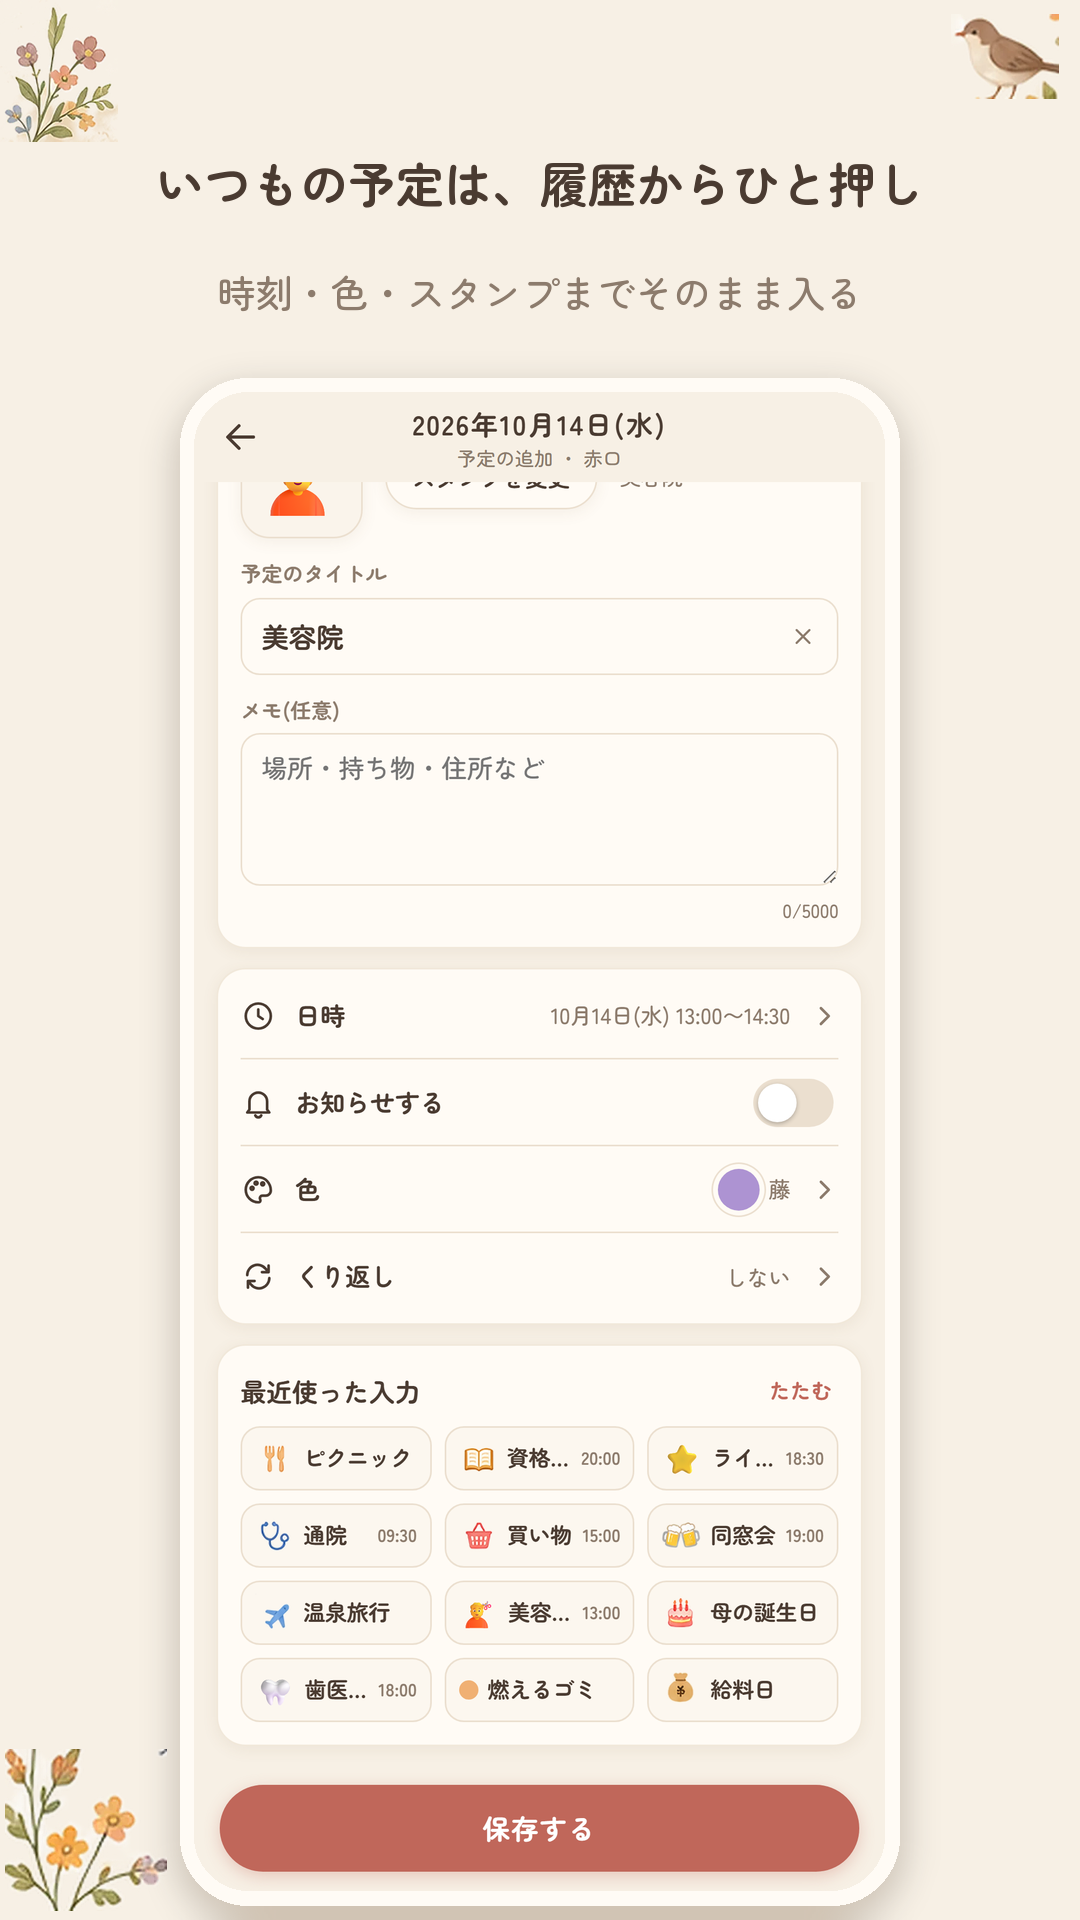
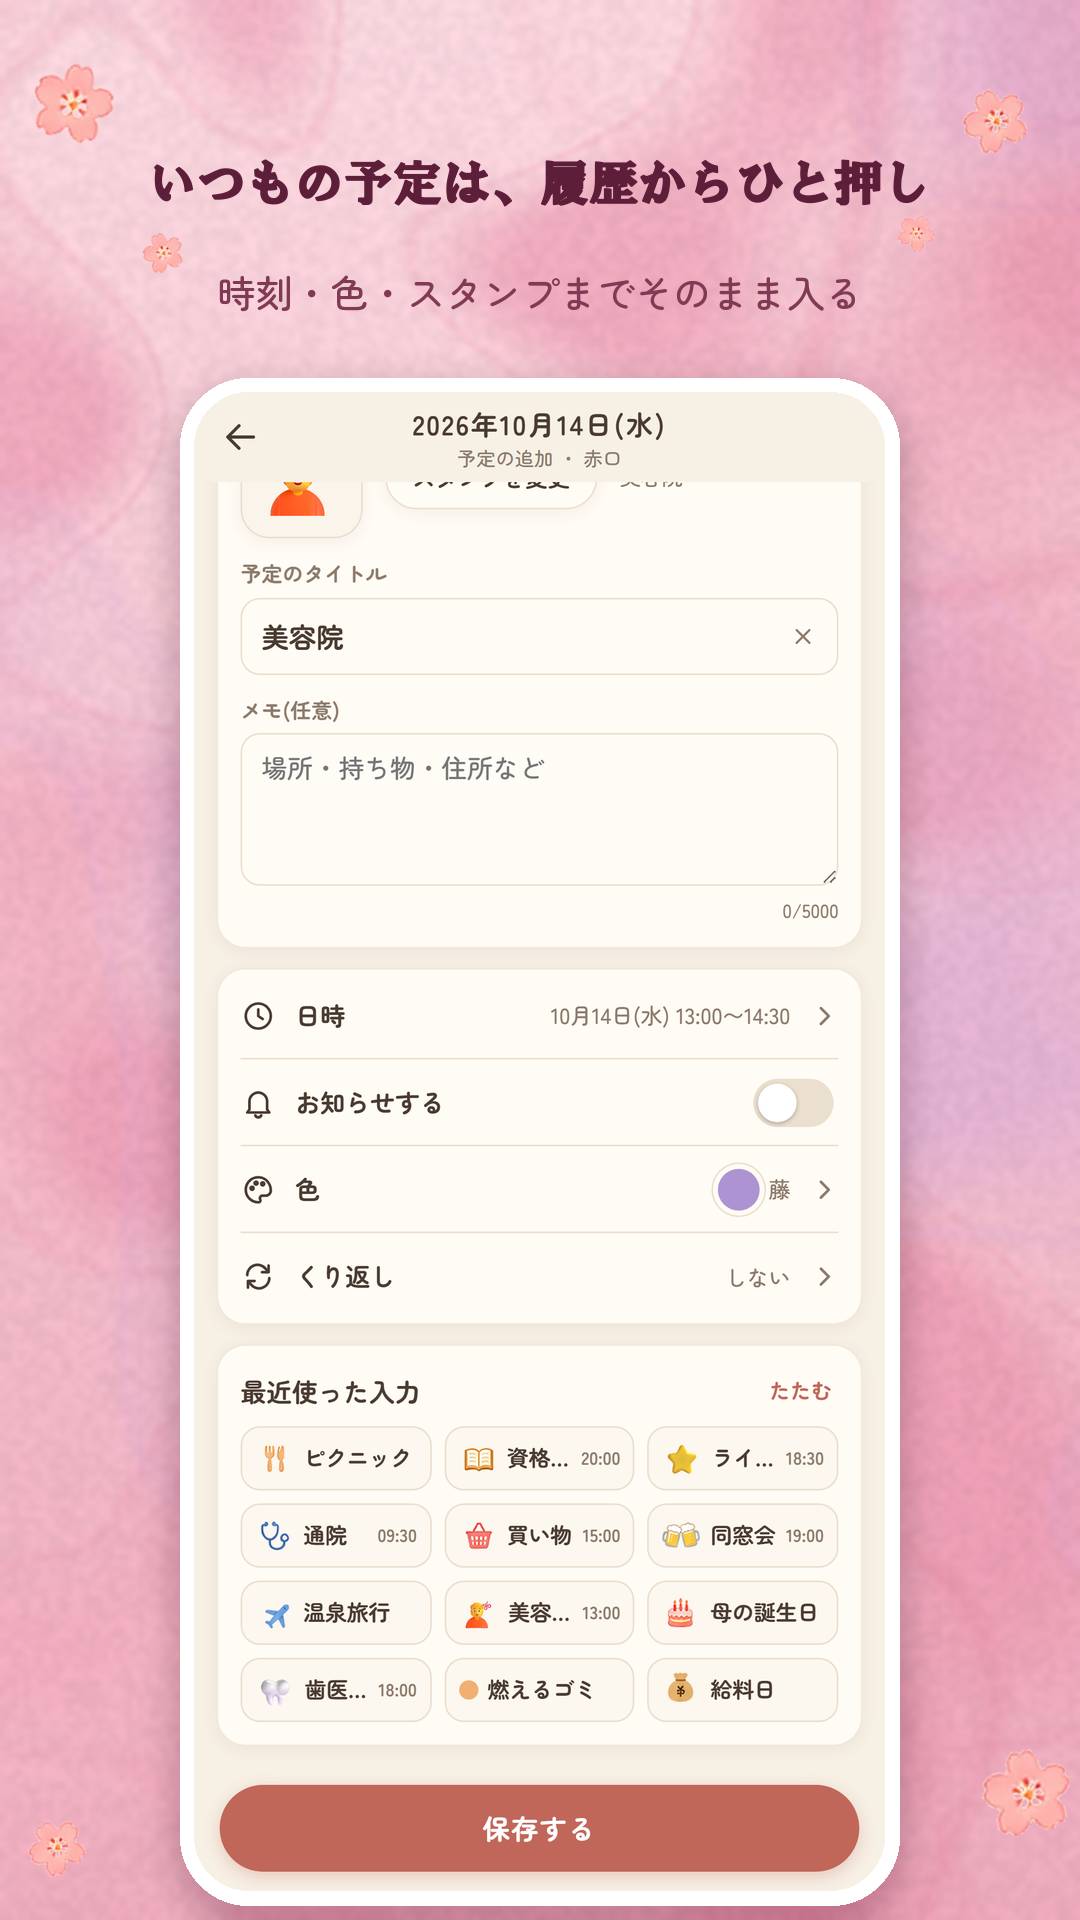
ストア画像と宣伝の地を生成りの無地から桜色の水彩に(HG正楷書体-PRO・桜スタンプ)
持ち主「Claude 特有の背景をなくして」。Play 6枚・フィーチャー・iOS 5枚(iOS は前の版の画面と見出しのまま地だけ)を --no-capture で組み直した。
雀の絵は生成りの四角が残るので外した。元の画像は store/_cream_backup_2026-10-10/。

diff --git a/scripts/store_shots.py b/scripts/store_shots.py
@@ -3,8 +3,11 @@ python scripts/store_shots.py [製品ビルドのURL] [開発サーバーのURL]
 - 生の画面: store/raw_play/(430x932 の3倍)
 - Play 用 1080x1920: store/play/shot_N.png / フィーチャー 1024x500: store/play/feature.png
 - 値段・「無料」は写さない。iPhone だけの機能(iCloud など)は写さない
-- iOS の写真(store/ios/)は作らない(iOS は出し直さないため、前の物のまま)
-前の版の Play 素材は store/archive_v1_2026-10-10/play/ に退避してある"""
+- iOS の写真(store/ios/ 1290x2796)は、iOS は出し直さないので前の版の画面(store/raw/)と前の見出しのまま、地だけ作り直す
+- 撮り直さず組むだけ: python scripts/store_shots.py --no-capture
+前の版の Play 素材は store/archive_v1_2026-10-10/play/ に退避してある
+2026-10-10 持ち主「Claude 特有の背景をなくして」: 生成りの無地をやめ、桜色の水彩のにじみ(毎回同じ乱数)に
+アプリの桜スタンプを散らした地にする。見出しは HG正楷書体-PRO(HGRPRE)。元の画像は store/_cream_backup_2026-10-10/"""
 import os
 import sys
 import numpy as np
@@ -123,8 +126,53 @@ def art(name, w, soft=0):
     return im
 
 
-def paper(W, H):
-    return Image.new('RGB', (W, H), PAPER)
+HGPRE = 'C:/Windows/Fonts/HGRPRE.TTC'
+PLUM = (92, 30, 56)
+PLUM2 = (128, 58, 84)
+SAKURA_TOP = (248, 214, 222)
+SAKURA_BOT = (236, 170, 188)
+WASH = [(232, 140, 168), (214, 168, 214), (246, 186, 196), (222, 120, 150)]
+
+
+def _noise(W, H, cell, rng):
+    g = rng.random((H // cell + 3, W // cell + 3)).astype(np.float32)
+    im = Image.fromarray((g * 255).astype(np.uint8)).resize((W + cell * 3, H + cell * 3), Image.BICUBIC)
+    return np.asarray(im.crop((cell, cell, W + cell, H + cell)).filter(ImageFilter.GaussianBlur(cell * 0.35)), np.float32) / 255
+
+
+def paper(W, H, seed=7):
+    """桜色の水彩のにじみ(にじみの縁を少し濃くして水彩らしく)"""
+    rng = np.random.default_rng(seed)
+    y = np.linspace(0, 1, H, dtype=np.float32)[:, None, None]
+    base = np.array(SAKURA_TOP, np.float32) * (1 - y) + np.array(SAKURA_BOT, np.float32) * y
+    img = np.broadcast_to(base, (H, W, 3)).copy()
+    for k, col in enumerate(WASH):
+        n = _noise(W, H, int(W * (0.16 + 0.05 * k)), rng)
+        t = 0.55 + 0.04 * k
+        a = np.clip((n - t) * 5.0, 0, 1) * 0.55
+        edge = np.clip(1 - np.abs(n - t) * 40, 0, 1) * 0.22  # にじみの縁
+        a = np.clip(a + edge, 0, 0.75)[..., None]
+        img = img * (1 - a) + np.array(col, np.float32) * a
+    grain = _noise(W, H, 6, rng)[..., None]
+    img = img * (0.97 + 0.06 * grain)
+    return Image.fromarray(np.clip(img, 0, 255).astype(np.uint8))
+
+
+def petal(w, rot=0):
+    im = Image.open(os.path.join(ART, 'st_sakura.webp')).convert('RGBA')
+    a = np.asarray(im.getchannel('A'), np.float32)
+    rgb = np.asarray(im.convert('RGB'), np.float32)
+    pale = (rgb.min(axis=2) > 215)  # 生成りの縁を落とす
+    a = np.where((a < 170) | pale, 0, a)
+    im.putalpha(Image.fromarray(a.astype(np.uint8)).filter(ImageFilter.GaussianBlur(0.6)))
+    im = im.resize((w, w), Image.LANCZOS)
+    return im.rotate(rot, resample=Image.BICUBIC, expand=True)
+
+
+def scatter(im, spots):
+    for (fx, fy, fw, rot) in spots:
+        pe = petal(int(im.width * fw), rot)
+        im.alpha_composite(pe, (int(im.width * fx - pe.width / 2), int(im.height * fy - pe.height / 2)))
 
 
 def fit_font(d, text, path, size, maxw):
@@ -135,17 +183,17 @@ def fit_font(d, text, path, size, maxw):
     return f
 
 
-def compose(raw, title, sub, W, H, out):
-    im = paper(W, H).convert('RGBA')
+def compose(raw, title, sub, W, H, out, seed=7):
+    im = paper(W, H, seed).convert('RGBA')
     d = ImageDraw.Draw(im)
     cap_h = int(H * 0.19)
-    im.alpha_composite(art('sprig_tl', int(W * 0.11)), (0, 0))
-    sp = art('sparrow', int(W * 0.10))
-    im.alpha_composite(sp, (W - sp.width - int(W * 0.02), int(cap_h * 0.04)))
-    f1 = fit_font(d, title, FB, int(W * 0.062), W * 0.72)
-    f2 = fit_font(d, sub, FM, int(W * 0.036), W * 0.76)
-    d.text((W / 2, cap_h * 0.50), title, font=f1, fill=INK, anchor='mm')
-    d.text((W / 2, cap_h * 0.80), sub, font=f2, fill=SUB, anchor='mm')
+    # 桜スタンプを散らす(雀の絵は生成りの四角が残るので使わない)
+    scatter(im, [(0.07, 0.05, 0.10, -15), (0.15, 0.13, 0.05, 20), (0.92, 0.06, 0.08, 25), (0.85, 0.12, 0.045, -30),
+                 (0.95, 0.93, 0.11, 10), (0.05, 0.96, 0.07, 35)])
+    f1 = fit_font(d, title, HGPRE, int(W * 0.068), W * 0.74)
+    f2 = fit_font(d, sub, FM, int(W * 0.036), W * 0.78)
+    d.text((W / 2, cap_h * 0.50), title, font=f1, fill=PLUM, anchor='mm', stroke_width=max(1, W // 900), stroke_fill=PLUM)
+    d.text((W / 2, cap_h * 0.80), sub, font=f2, fill=PLUM2, anchor='mm')
     shot = Image.open(raw).convert('RGB')
     avail_h = H - cap_h - int(H * 0.03)
     sh = avail_h
@@ -157,45 +205,51 @@ def compose(raw, title, sub, W, H, out):
     x = (W - sw) // 2
     y = cap_h + (H - cap_h - sh) // 2
     r = int(W * 0.05)
-    # 外枠(やわらかい生成りの縁)と影
+    # 白い縁と影
     sd = Image.new('RGBA', (W, H), (0, 0, 0, 0))
-    ImageDraw.Draw(sd).rounded_rectangle([x - 14, y - 14 + 14, x + sw + 14, y + sh + 14 + 14], r + 14, fill=(110, 80, 50, 70))
+    ImageDraw.Draw(sd).rounded_rectangle([x - 14, y - 14 + 14, x + sw + 14, y + sh + 14 + 14], r + 14, fill=(120, 40, 70, 80))
     sd = sd.filter(ImageFilter.GaussianBlur(18))
     im.alpha_composite(sd)
-    ImageDraw.Draw(im).rounded_rectangle([x - 14, y - 14, x + sw + 14, y + sh + 14], r + 14, fill=(255, 251, 245))
+    ImageDraw.Draw(im).rounded_rectangle([x - 14, y - 14, x + sw + 14, y + sh + 14], r + 14, fill=(255, 255, 255))
     mask = Image.new('L', (sw, sh), 0)
     ImageDraw.Draw(mask).rounded_rectangle([0, 0, sw - 1, sh - 1], r, fill=255)
     im.paste(shot, (x, y), mask)
-    fl = art('flowers_bottom', int(W * 0.15))
-    im.alpha_composite(fl, (int(W * 0.005), H - fl.height - int(H * 0.005)))
     im.convert('RGB').save(out)
 
 
 for i, (name, t, s) in enumerate(CAPS, 1):
-    compose(os.path.join(RAW, name + '.png'), t, s, 1080, 1920, os.path.join(PLAY, f'shot_{i}.png'))
+    compose(os.path.join(RAW, name + '.png'), t, s, 1080, 1920, os.path.join(PLAY, f'shot_{i}.png'), seed=10 + i)
+
+# iOS(前の版の画面と見出しのまま、地だけ作り直す)
+IOS_CAPS = [
+    ('1_month', '大安・仏滅と旧暦が、月の表に', '六曜と旧暦は天文計算、祝日は祝日法から'),
+    ('2_history', 'いつもの予定は、履歴からワンタップ', '時刻・色・スタンプまでそのまま入る'),
+    ('3_stamps', 'スタンプを選んで、日付をぺたぺた', 'シフトもゴミの日も、押すだけ'),
+    ('4_search', '前の通院はいつだった?', '過去の予定もメモも、すぐ探せる'),
+    ('5_sakura', '着せ替えで、季節の色に', 'さくら色のカレンダーとスタンプ'),
+]
+IOS = os.path.join(ROOT, 'store', 'ios')
+for i, (name, t, s) in enumerate(IOS_CAPS, 1):
+    compose(os.path.join(ROOT, 'store', 'raw', name + '.png'), t, s, 1290, 2796, os.path.join(IOS, f'shot_{i}.png'), seed=30 + i)
 
 # フィーチャー画像 1024x500
-fe = paper(1024, 500).convert('RGBA')
+fe = paper(1024, 500, 3).convert('RGBA')
 d = ImageDraw.Draw(fe)
 icon = Image.open(os.path.join(ROOT, 'store', 'icon-1024.png')).convert('RGB').resize((300, 300), Image.LANCZOS)
 m = Image.new('L', (1200, 1200), 0)
 ImageDraw.Draw(m).rounded_rectangle([0, 0, 1199, 1199], 270, fill=255)
 m = m.resize((300, 300), Image.LANCZOS)
 sh = Image.new('RGBA', (1024, 500), (0, 0, 0, 0))
-ImageDraw.Draw(sh).rounded_rectangle([76, 112, 376, 412], 66, fill=(110, 70, 30, 80))
+ImageDraw.Draw(sh).rounded_rectangle([76, 112, 376, 412], 66, fill=(120, 40, 70, 90))
 sh = sh.filter(ImageFilter.GaussianBlur(14))
 fe.alpha_composite(sh)
 fe.paste(icon, (70, 100), m)
 logo = art('logo', 470)
 fe.alpha_composite(logo, (420, 70))
-tag = art('tagline', 150, soft=8)
-fe.alpha_composite(tag, (440, 240))
-d.text((430, 400), 'スタンプで貼る、登録いらずのカレンダー', font=ImageFont.truetype(FB, 27), fill=INK, anchor='lm')
-cat = art('cat_sleep', 250, soft=18)
-fe.alpha_composite(cat, (740, 226))
-spr = art('sprig_tl', 92)
-fe.alpha_composite(spr, (0, 0))
-fl = art('flowers_bottom', 90)
-fe.alpha_composite(fl, (934, 500 - fl.height))
+d.text((440, 262), '日々の暮らしに', font=ImageFont.truetype(HGPRE, 34), fill=PLUM2)
+d.text((470, 308), '小さな彩りを', font=ImageFont.truetype(HGPRE, 34), fill=PLUM2)
+d.text((430, 410), 'スタンプで貼る、登録いらずのカレンダー', font=ImageFont.truetype(FB, 27), fill=PLUM, anchor='lm')
+scatter(fe, [(0.03, 0.08, 0.09, -20), (0.93, 0.15, 0.10, 15), (0.84, 0.58, 0.13, 40), (0.96, 0.75, 0.06, -10),
+             (0.74, 0.62, 0.05, 12)])
 fe.convert('RGB').save(os.path.join(PLAY, 'feature.png'))
 print('ok')

diff --git a/store/promo/tt_zunda_intro/_work/make.py b/store/promo/tt_zunda_intro/_work/make.py
@@ -1,0 +1,51 @@
+"""ひよりごよみ ずんだもんのアプリ紹介 縦動画(1080x1920)。共通部品 Downloads/ui_remake_common/zunda_promo.py
+画面は製品ビルド dist を vite preview して見本のバックアップで録画した clips/(record.py)
+python record.py → python make.py → ../hiyorigoyomi_zunda_intro.mp4 / ../thumb.png
+"""
+import sys
+from pathlib import Path
+
+sys.path.insert(0, r'C:\Users\yuichi1\Downloads\ui_remake_common')
+import zunda_promo as Z  # noqa: E402
+
+HERE = Path(__file__).resolve().parent
+OUT = HERE.parent
+STORE = HERE.parents[2]
+
+Z.setup(name='ひよりごよみ', tagline='スタンプで貼るカレンダー', icon=STORE / 'icon-1024.png', renewed=True,
+        brand=(0xC0, 0x67, 0x5A), bg=(0xF8, 0xD6, 0xDE), bg2=(0xEC, 0xAA, 0xBC), ink=(0x4A, 0x3B, 0x31),
+        key='hiyori3', clips=HERE / 'clips',
+        # 2026-10-10 生成りの地をやめ、ストア画像と同じ桜色の水彩のにじみ(bg_sakura.png は store_shots.py の paper() で作った物)
+        bg_img=HERE / 'bg_sakura.png', bg_blur=0, head_ink=(0x5C, 0x1E, 0x38), name_font='C:/Windows/Fonts/HGRPRE.TTC')
+
+MONTH = Z.clip_at('month', 0)
+GRID = Z.box9(540, 700, 1040)
+
+
+def scenes():
+    return [
+        Z.Seg('カレンダーの広告や、予定が消えちゃうことに、困ってないのだ?', None,
+              sub='カレンダーの広告や|予定が消えちゃうこと|困ってないのだ?', img=MONTH, crop0=Z.FULLBOX, crop1=GRID, zt=(0.3, 2.4),
+              pose=13, sfx=[(0.0, 'scout-impact.wav', 0.2)]),
+        Z.Seg('そこで、ひよりごよみなのだ。UIと見た目を大幅に変えて、新しくなったのだ。',
+              'そこで、ひよりごよみなのだ。ユーアイと見た目を大幅に変えて、新しくなったのだ。',
+              sub='そこで、ひよりごよみなのだ。|UIと見た目を大幅に変えて|新しくなったのだ', img=MONTH, crop0=GRID,
+              crop1=Z.box9(540, 680, 1000), zt=(0.2, 1.8), pose=3, hl=['ひよりごよみ', '新しくなった'],
+              sfx=[(0.0, 'card-place.wav', 0.35)]),
+        Z.Seg('予定はスタンプで。選んで日付を押すだけで、ぺたっと貼れるのだ。', 'よていはスタンプで。選んで日付を押すだけで、ぺたっと貼れるのだ。',
+              sub='予定はスタンプで|選んで日付を押すだけ|ぺたっと貼れる', clip='paste', c0=0.3, c1=3.5,
+              crop0=Z.box9(540, 760, 1040), pose=20, hl=['スタンプ'], min_dur=3.4, sfx=[(1.9, 'card-place.wav', 0.25)]),
+        Z.Seg('六曜や旧暦、祝日も、月の表にそのまま出るのだ。', 'ろくようや旧暦、祝日も、月の表にそのまま出るのだ。',
+              sub='六曜や旧暦、祝日も|月の表にそのまま', clip='month', c0=0.0, c1=0.8, crop0=Z.box9(540, 1000, 1000), pose=30, hl=['六曜', '旧暦'], sub_top=True),
+        Z.Seg('前の通院はいつだったか、過去の予定もすぐ探せるのだ。', 'まえの通院はいつだったか、過去の予定もすぐ探せるのだ。',
+              sub='前の通院はいつだった?|過去の予定もすぐ探せる', clip='search', c0=0.0, c1=1.5, crop0=Z.box9(540, 760, 1000),
+              pose=2, hl=['すぐ探せる'], min_dur=2.8),
+        Z.End('ひよりごよみは、いまアンドロイドのテスト版。テスター募集中なのだ。プロフィールのリンクから参加してほしいのだ!', None, pose=29),
+    ]
+
+
+if __name__ == '__main__':
+    mp4 = OUT / 'hiyorigoyomi_zunda_intro.mp4'
+    Z.build(scenes(), mp4, HERE / 'timeline.json')
+    Z.thumb(OUT / 'thumb.png', MONTH, '予定はスタンプで', 'ぺたっと貼るだけ', crop=Z.box9(540, 760, 1080), y=1060)
+    Z.check(mp4, HERE / 'check', [0.1, 1.5, 3.5, 5.0, 7.5, 9.0, 10.0, 12.0, 14.0, 16.0, 18.0, 20.0, 22.0, 25.0])
